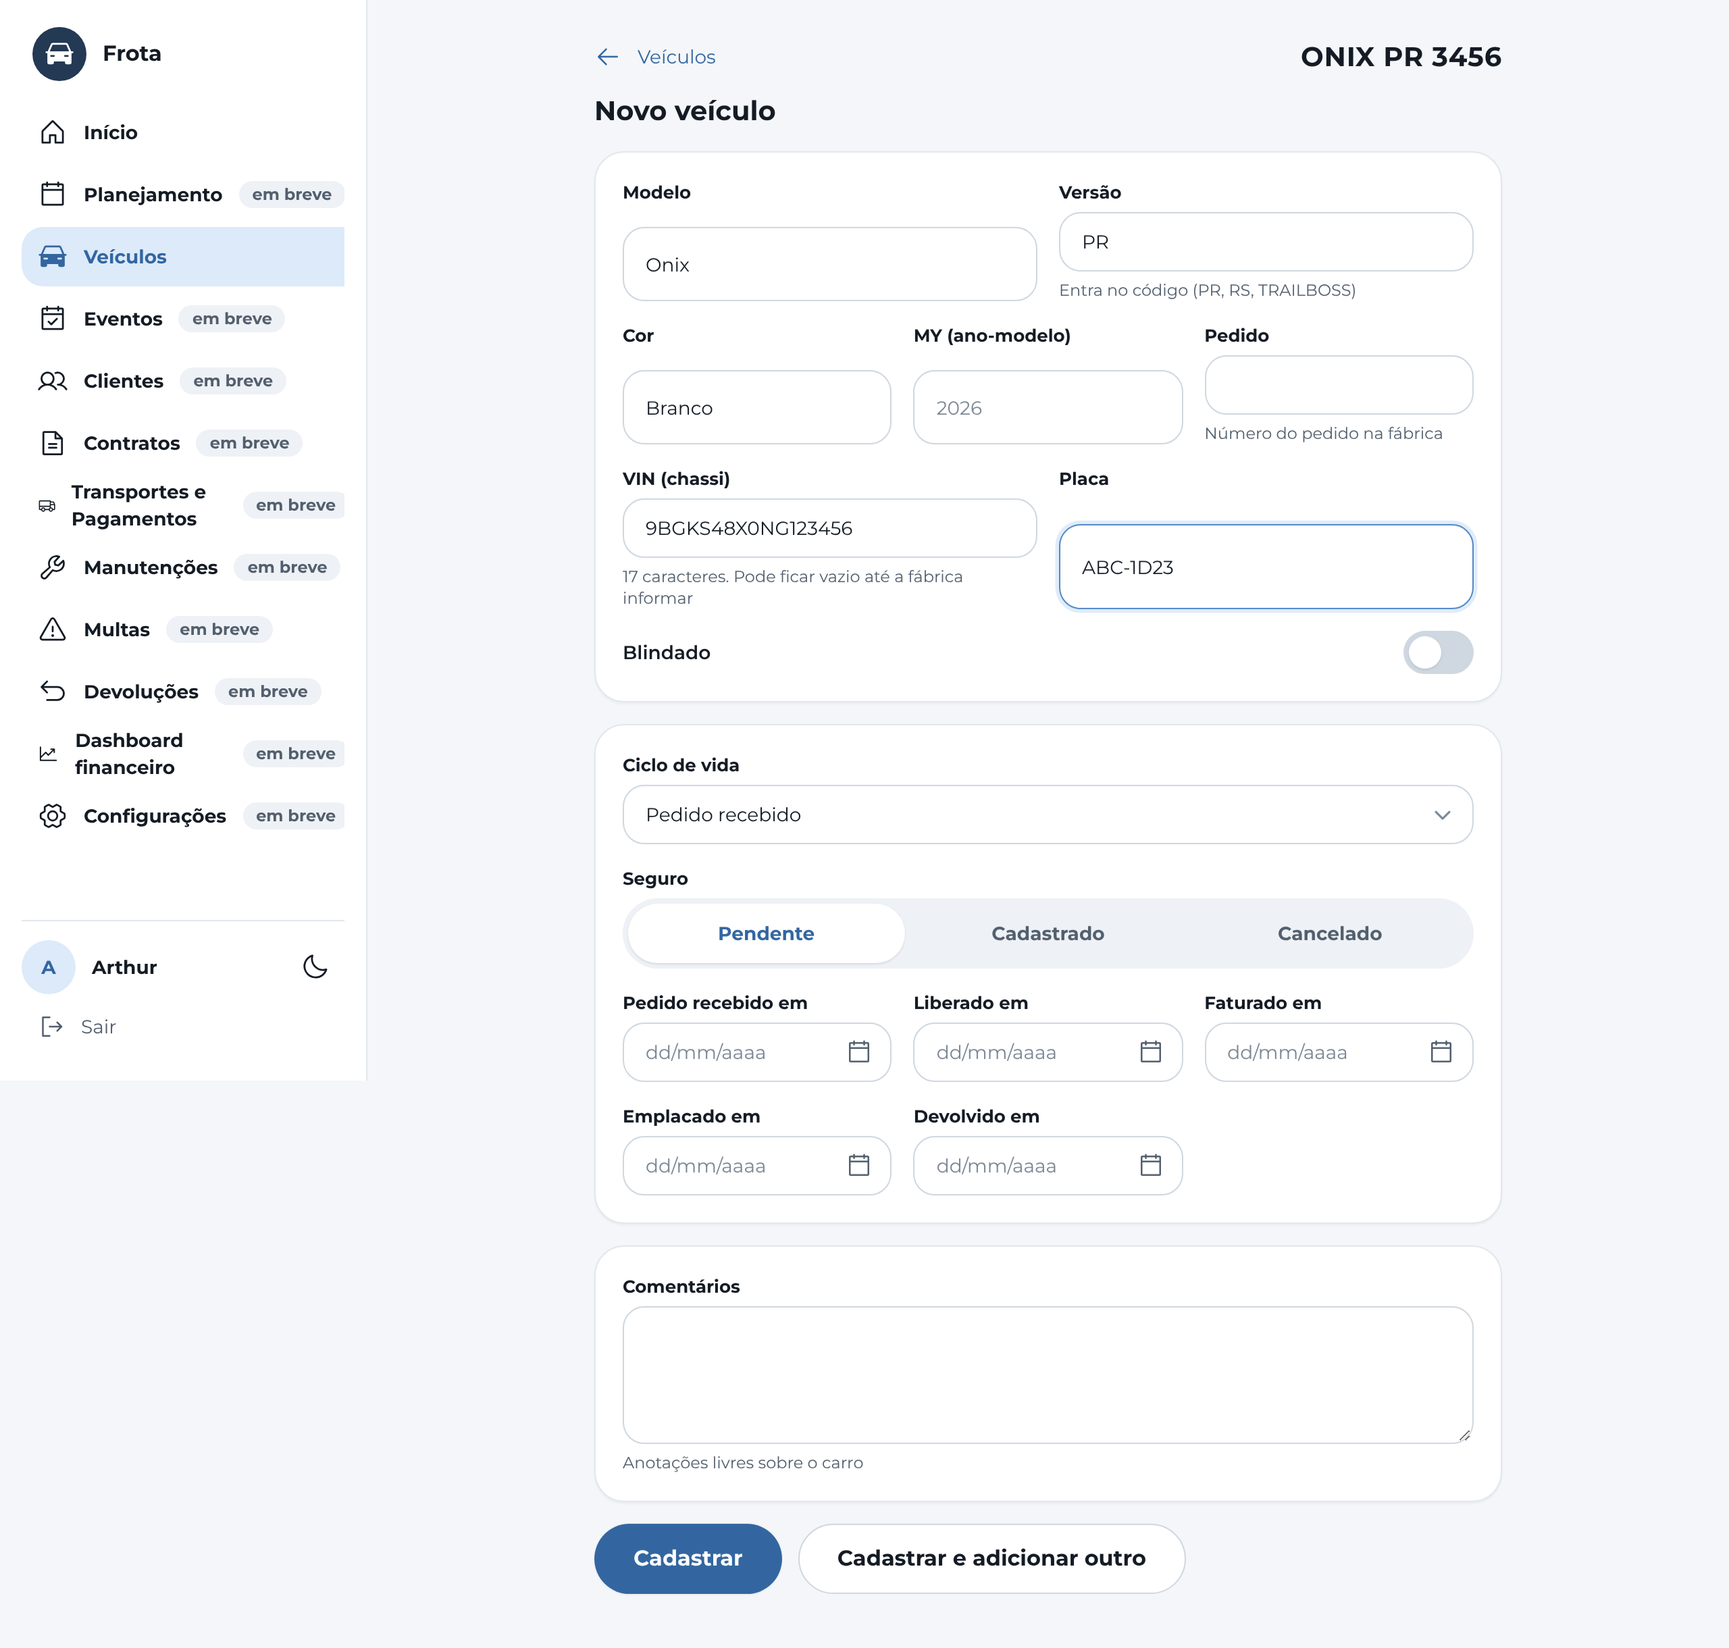
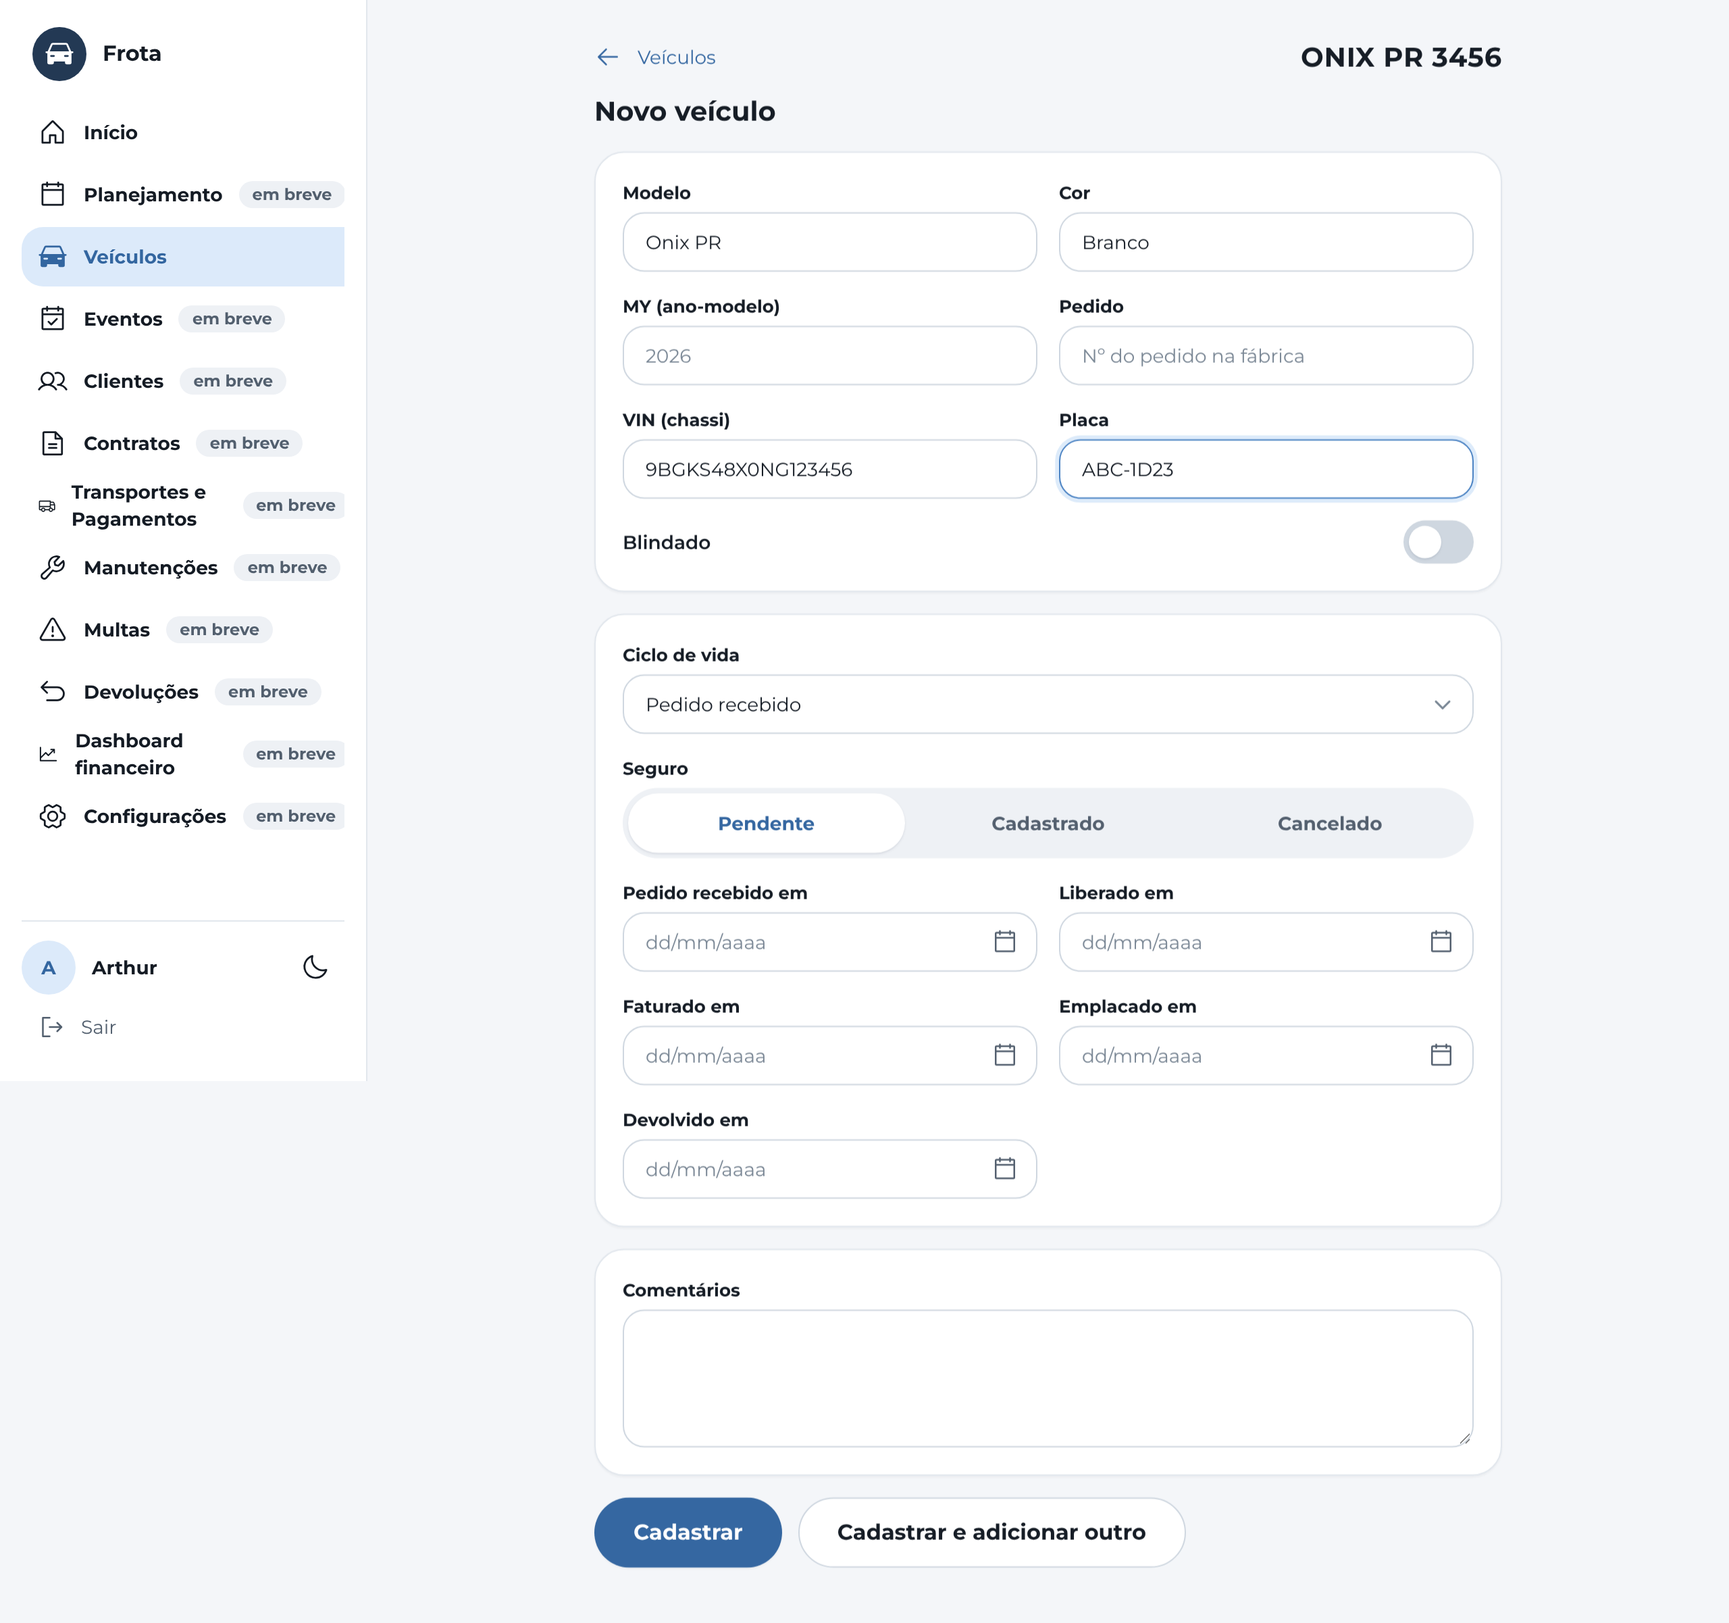
Veículos: formulário em grade simétrica sem textinhos, versão dentro do modelo; banco: dados confidenciais criptografados (migration 0003, ainda não aplicada) e testes
Claude-Session: https://claude.ai/code/session_01ESTCcgLzWreKa9bGC6U2mi

diff --git a/web/src/pages/veiculos/FormVeiculo.tsx b/web/src/pages/veiculos/FormVeiculo.tsx
@@ -7,15 +7,15 @@ import { CICLO, SEGURO, normalizarPlaca, normalizarVin, placaValida, vazioParaNu
 import "./veiculos.css";
 
 type Estado = {
-  modelo: string; versao: string; cor: string; my: string; pedido: string; vin: string; placa: string; blindado: boolean;
+  modelo: string; cor: string; my: string; pedido: string; vin: string; placa: string; blindado: boolean;
   seguro: Seguro; ciclo: Ciclo; d_pedido: string; d_lib: string; d_fat: string; d_empl: string; d_dev: string; comentarios: string;
 };
-const VAZIO: Estado = { modelo: "", versao: "", cor: "", my: "", pedido: "", vin: "", placa: "", blindado: false, seguro: "pendente", ciclo: "pedido_recebido", d_pedido: "", d_lib: "", d_fat: "", d_empl: "", d_dev: "", comentarios: "" };
+const VAZIO: Estado = { modelo: "", cor: "", my: "", pedido: "", vin: "", placa: "", blindado: false, seguro: "pendente", ciclo: "pedido_recebido", d_pedido: "", d_lib: "", d_fat: "", d_empl: "", d_dev: "", comentarios: "" };
 
-/** "ONIX PR 3456": a mesma conta do banco (modelo + versão + 4 últimos do VIN), só para mostrar enquanto digita. */
-export const codigoPrevisto = (modelo: string, versao: string, vin: string) => {
+/** "ONIX RS 3456": a mesma conta do banco (modelo + 4 últimos do VIN; a versão vai escrita no modelo), só para mostrar enquanto digita. */
+export const codigoPrevisto = (modelo: string, vin: string) => {
   const v = normalizarVin(vin);
-  return v.length >= 4 && modelo.trim() ? [modelo.trim().toUpperCase(), versao.trim().toUpperCase(), v.slice(-4)].filter(Boolean).join(" ") : "";
+  return v.length >= 4 && modelo.trim() ? `${modelo.trim().toUpperCase()} ${v.slice(-4)}` : "";
 };
 
 const textoAtividade = (t: string) => CICLO.reduce((s, c) => s.split(c.value).join(c.label), t);
@@ -38,7 +38,7 @@ export function FormVeiculo() {
     if (!id) return;
     buscarVeiculo(id).then((v) => {
       if (!v) { setErro("Veículo não encontrado."); return; }
-      setF({ modelo: v.modelo, versao: v.versao ?? "", cor: v.cor ?? "", my: v.my ?? "", pedido: v.pedido ?? "", vin: v.vin ?? "", placa: v.placa ?? "", blindado: v.blindado, seguro: v.seguro_status, ciclo: v.status_ciclo,
+      setF({ modelo: v.modelo, cor: v.cor ?? "", my: v.my ?? "", pedido: v.pedido ?? "", vin: v.vin ?? "", placa: v.placa ?? "", blindado: v.blindado, seguro: v.seguro_status, ciclo: v.status_ciclo,
         d_pedido: v.data_pedido ?? "", d_lib: v.data_liberacao ?? "", d_fat: v.data_faturamento ?? "", d_empl: v.data_emplacamento ?? "", d_dev: v.data_devolucao ?? "", comentarios: v.comentarios ?? "" });
       void listarAtividades(id).then(setHist, () => setHist([]));
     }, (e: Error) => setErro(e.message)).finally(() => setCarregando(false));
@@ -51,10 +51,10 @@ export function FormVeiculo() {
     placa: !placa || placaValida(placa) ? null : `A placa tem 7 caracteres (digitou ${placa.length}).`,
   }), [f.modelo, vin, placa]);
   const invalido = Object.values(erros).some(Boolean);
-  const codigo = codigoPrevisto(f.modelo, f.versao, f.vin);
+  const codigo = codigoPrevisto(f.modelo, f.vin);
 
   const corpo = (): VeiculoNovo => ({
-    modelo: f.modelo.trim(), versao: vazioParaNulo(f.versao), cor: vazioParaNulo(f.cor), my: vazioParaNulo(f.my), pedido: vazioParaNulo(f.pedido),
+    modelo: f.modelo.trim(), cor: vazioParaNulo(f.cor), my: vazioParaNulo(f.my), pedido: vazioParaNulo(f.pedido),
     vin: vin || null, placa: placa || null, blindado: f.blindado, seguro_status: f.seguro, status_ciclo: f.ciclo,
     data_pedido: f.d_pedido || null, data_liberacao: f.d_lib || null, data_faturamento: f.d_fat || null, data_emplacamento: f.d_empl || null, data_devolucao: f.d_dev || null,
     comentarios: vazioParaNulo(f.comentarios),
@@ -70,7 +70,7 @@ export function FormVeiculo() {
       else {
         const v = await criarVeiculo(corpo());
         toast(`Cadastrado: ${v.codigo ?? v.modelo}`);
-        if (outro) { setF({ ...VAZIO, modelo: f.modelo, versao: f.versao, cor: f.cor, my: f.my }); setTocado(false); window.scrollTo({ top: 0 }); }
+        if (outro) { setF({ ...VAZIO, modelo: f.modelo, cor: f.cor, my: f.my }); setTocado(false); window.scrollTo({ top: 0 }); }
         else navigate("/veiculos");
       }
     } catch (x) { setErro((x as Error).message); } finally { setEnviando(false); }
@@ -90,17 +90,16 @@ export function FormVeiculo() {
         <Card>
           <div className="vei-form">
             <div className="vei-form__linha">
-              <Field label="Modelo" error={tocado ? erros.modelo : null}><Input value={f.modelo} onChange={(e) => set("modelo", e.target.value)} placeholder="Onix" autoCapitalize="characters" /></Field>
-              <Field label="Versão" hint="Entra no código (PR, RS, TRAILBOSS)"><Input value={f.versao} onChange={(e) => set("versao", e.target.value)} placeholder="PR" /></Field>
-            </div>
-            <div className="vei-form__linha">
+              <Field label="Modelo" error={tocado ? erros.modelo : null}><Input value={f.modelo} onChange={(e) => set("modelo", e.target.value)} placeholder="Onix RS" autoCapitalize="characters" /></Field>
               <Field label="Cor"><Input value={f.cor} onChange={(e) => set("cor", e.target.value)} /></Field>
-              <Field label="MY (ano-modelo)"><Input value={f.my} onChange={(e) => set("my", e.target.value)} placeholder="2026" inputMode="numeric" /></Field>
-              <Field label="Pedido" hint="Número do pedido na fábrica"><Input value={f.pedido} onChange={(e) => set("pedido", e.target.value)} /></Field>
             </div>
             <div className="vei-form__linha">
-              <Field label="VIN (chassi)" error={tocado || vin.length > 17 ? erros.vin : null} hint="17 caracteres. Pode ficar vazio até a fábrica informar"><Input value={f.vin} onChange={(e) => set("vin", e.target.value.toUpperCase())} autoCapitalize="characters" spellCheck={false} maxLength={20} /></Field>
-              <Field label="Placa" error={tocado ? erros.placa : null}><Input value={f.placa} onChange={(e) => set("placa", e.target.value.toUpperCase())} autoCapitalize="characters" spellCheck={false} maxLength={8} /></Field>
+              <Field label="MY (ano-modelo)"><Input value={f.my} onChange={(e) => set("my", e.target.value)} placeholder="2026" inputMode="numeric" /></Field>
+              <Field label="Pedido"><Input value={f.pedido} onChange={(e) => set("pedido", e.target.value)} placeholder="Nº do pedido na fábrica" /></Field>
+            </div>
+            <div className="vei-form__linha">
+              <Field label="VIN (chassi)" error={tocado || vin.length > 17 ? erros.vin : null}><Input value={f.vin} onChange={(e) => set("vin", e.target.value.toUpperCase())} placeholder="17 caracteres" autoCapitalize="characters" spellCheck={false} maxLength={20} /></Field>
+              <Field label="Placa" error={tocado ? erros.placa : null}><Input value={f.placa} onChange={(e) => set("placa", e.target.value.toUpperCase())} placeholder="ABC1D23" autoCapitalize="characters" spellCheck={false} maxLength={8} /></Field>
             </div>
             <div className="ds-row" style={{ justifyContent: "space-between" }}><span className="t-body" style={{ fontWeight: 600 }}>Blindado</span><Switch checked={f.blindado} onChange={(v) => set("blindado", v)} label="Blindado" /></div>
           </div>
@@ -120,7 +119,7 @@ export function FormVeiculo() {
           </div>
         </Card>
 
-        <Card><Field label="Comentários" hint="Anotações livres sobre o carro"><Textarea rows={4} value={f.comentarios} onChange={(e) => set("comentarios", e.target.value)} /></Field></Card>
+        <Card><Field label="Comentários"><Textarea rows={4} value={f.comentarios} onChange={(e) => set("comentarios", e.target.value)} /></Field></Card>
 
         {erro && <p className="t-body" role="alert" style={{ color: "var(--color-error-fg)" }}>{erro}</p>}
         <div className="ds-row" style={{ flexWrap: "wrap" }}>

diff --git a/web/src/lib/veiculos/importacao.ts b/web/src/lib/veiculos/importacao.ts
@@ -4,13 +4,13 @@
  */
 import { CICLO, SEGURO, normalizarPlaca, normalizarVin, placaValida, vazioParaNulo, vinValido, type Ciclo, type Seguro, type VeiculoNovo } from "./tipos";
 
-export type CampoLinha = "modelo" | "versao" | "cor" | "my" | "pedido" | "vin" | "placa" | "blindado" | "seguro" | "ciclo" | "comentarios";
+export type CampoLinha = "modelo" | "cor" | "my" | "pedido" | "vin" | "placa" | "blindado" | "seguro" | "ciclo" | "comentarios";
 export type LinhaCrua = Partial<Record<CampoLinha, string>>;
 export type Tom = "ok" | "erro" | "dup" | "ign";
 export type ResultadoLinha = { tom: Tom; texto: string; veiculo?: VeiculoNovo };
 
 export const CAMPOS: { id: CampoLinha; titulo: string; largura: number }[] = [
-  { id: "modelo", titulo: "Modelo", largura: 130 }, { id: "versao", titulo: "Versão", largura: 110 }, { id: "cor", titulo: "Cor", largura: 110 },
+  { id: "modelo", titulo: "Modelo", largura: 130 }, { id: "cor", titulo: "Cor", largura: 110 },
   { id: "my", titulo: "MY", largura: 80 }, { id: "pedido", titulo: "Pedido", largura: 120 }, { id: "vin", titulo: "VIN (chassi)", largura: 190 },
   { id: "placa", titulo: "Placa", largura: 100 }, { id: "blindado", titulo: "Blindado", largura: 100 }, { id: "seguro", titulo: "Seguro", largura: 120 },
   { id: "ciclo", titulo: "Ciclo de vida", largura: 190 }, { id: "comentarios", titulo: "Comentários", largura: 200 },
@@ -20,7 +20,7 @@ const semAcento = (s: string) => s.normalize("NFD").replace(/[̀-ͯ]/g, "").toLo
 
 /** Nomes de coluna aceitos no cabeçalho colado (sem acento, minúsculas). */
 const ALIAS: Record<string, CampoLinha> = {
-  modelo: "modelo", versao: "versao", cor: "cor", my: "my", "ano modelo": "my", "ano-modelo": "my", pedido: "pedido", "n pedido": "pedido",
+  modelo: "modelo", cor: "cor", my: "my", "ano modelo": "my", "ano-modelo": "my", pedido: "pedido", "n pedido": "pedido",
   vin: "vin", chassi: "vin", "vin (chassi)": "vin", placa: "placa", blindado: "blindado", seguro: "seguro",
   ciclo: "ciclo", "ciclo de vida": "ciclo", status: "ciclo", "status do ciclo de vida": "ciclo", comentarios: "comentarios", comentario: "comentarios", obs: "comentarios",
 };
@@ -29,12 +29,15 @@ const ALIAS: Record<string, CampoLinha> = {
 export function linhasDeMatriz(matriz: string[][]): LinhaCrua[] {
   const dados = matriz.filter((l) => l.some((c) => (c ?? "").trim() !== ""));
   if (dados.length === 0) return [];
+  // Se a planilha trouxer uma coluna "Versão", ela é juntada ao modelo ("Onix" + "RS" → "Onix RS"): o app tem um campo só.
+  const colVersao = dados[0].findIndex((c) => semAcento(c ?? "") === "versao");
   const mapa = dados[0].map((c) => ALIAS[semAcento(c ?? "")]);
   const ehCabecalho = mapa.filter(Boolean).length >= 2;
   const ordem: (CampoLinha | undefined)[] = ehCabecalho ? mapa : CAMPOS.map((c) => c.id);
   return (ehCabecalho ? dados.slice(1) : dados).map((l) => {
     const o: LinhaCrua = {};
     l.forEach((c, i) => { const campo = ordem[i]; if (campo && (c ?? "").trim() !== "") o[campo] = c.trim(); });
+    if (ehCabecalho && colVersao >= 0 && (l[colVersao] ?? "").trim() && o.modelo) o.modelo = `${o.modelo} ${l[colVersao].trim()}`;
     return o;
   });
 }
@@ -78,7 +81,7 @@ export function validarLinha(l: LinhaCrua, ex: Existentes, vistas: Existentes): 
   if (placa) vistas.placas.add(placa);
 
   const veiculo: VeiculoNovo = {
-    modelo, versao: vazioParaNulo(l.versao), cor: vazioParaNulo(l.cor), my: vazioParaNulo(l.my), pedido: vazioParaNulo(l.pedido),
+    modelo, cor: vazioParaNulo(l.cor), my: vazioParaNulo(l.my), pedido: vazioParaNulo(l.pedido),
     vin, placa, blindado: blind === null ? false : blind,
     seguro_status: (seguro ?? "pendente") as Seguro, status_ciclo: (ciclo ?? "pedido_recebido") as Ciclo, comentarios: vazioParaNulo(l.comentarios),
   };

diff --git a/web/src/lib/veiculos/importacao.test.ts b/web/src/lib/veiculos/importacao.test.ts
@@ -10,9 +10,12 @@ describe("linhasDeMatriz", () => {
     const l = linhasDeMatriz([["Modelo", "Chassi", "Status", "Cor"], ["Onix", VIN, "Liberado", "Branco"]]);
     expect(l).toEqual([{ modelo: "Onix", vin: VIN, ciclo: "Liberado", cor: "Branco" }]);
   });
-  it("sem cabeçalho, assume a ordem modelo, versão, cor, MY, pedido, VIN, placa…", () => {
-    const l = linhasDeMatriz([["Onix", "PR", "Preto", "2026", "P-1", VIN, "ABC1D23"]]);
-    expect(l[0]).toMatchObject({ modelo: "Onix", versao: "PR", cor: "Preto", my: "2026", pedido: "P-1", vin: VIN, placa: "ABC1D23" });
+  it("sem cabeçalho, assume a ordem modelo, cor, MY, pedido, VIN, placa…", () => {
+    const l = linhasDeMatriz([["Onix PR", "Preto", "2026", "P-1", VIN, "ABC1D23"]]);
+    expect(l[0]).toMatchObject({ modelo: "Onix PR", cor: "Preto", my: "2026", pedido: "P-1", vin: VIN, placa: "ABC1D23" });
+  });
+  it("junta a coluna Versão ao modelo (o app tem um campo só)", () => {
+    expect(linhasDeMatriz([["Modelo", "Versão", "Cor"], ["Onix", "RS", "Preto"], ["S10", "", "Azul"]])).toEqual([{ modelo: "Onix RS", cor: "Preto" }, { modelo: "S10", cor: "Azul" }]);
   });
   it("ignora linhas totalmente vazias", () => { expect(linhasDeMatriz([["", ""], ["Onix"]])).toHaveLength(1); });
 });

diff --git a/web/src/pages/veiculos/Massa.tsx b/web/src/pages/veiculos/Massa.tsx
@@ -105,7 +105,7 @@ export function Massa() {
 
       <Sheet open={colando} onClose={() => setColando(false)} title="Colar do Excel">
         <div className="ds-stack">
-          <p className="t-body-sm t-muted">Copie as células no Excel (com ou sem a linha de títulos) e cole aqui. Colunas aceitas: Modelo, Versão, Cor, MY, Pedido, VIN/Chassi, Placa, Blindado, Seguro, Ciclo de vida, Comentários.</p>
+          <p className="t-body-sm t-muted">Copie as células no Excel (com ou sem a linha de títulos) e cole aqui. Escreva a versão junto do modelo (Onix RS). Colunas aceitas: Modelo, Cor, MY, Pedido, VIN/Chassi, Placa, Blindado, Seguro, Ciclo de vida, Comentários.</p>
           <Textarea rows={8} value={texto} onChange={(e) => setTexto(e.target.value)} aria-label="Texto colado" />
           <Button size="lg" block disabled={!texto.trim()} onClick={() => { adicionar(Papa.parse<string[]>(texto, { delimiter: "\t", skipEmptyLines: true }).data); setTexto(""); setColando(false); }}>Adicionar à grade</Button>
         </div>

diff --git a/web/src/pages/veiculos/Veiculos.tsx b/web/src/pages/veiculos/Veiculos.tsx
@@ -13,11 +13,10 @@ const TOM_CICLO: Record<string, "success" | "warning" | "error" | "info" | "neut
 };
 
 const COLUNAS: Col[] = [
-  { id: "codigo", titulo: "Código", valor: (v) => v.codigo ?? `${v.modelo}${v.versao ? " " + v.versao : ""}`.toUpperCase(), padrao: true },
+  { id: "codigo", titulo: "Código", valor: (v) => v.codigo ?? v.modelo.toUpperCase(), padrao: true },
   { id: "placa", titulo: "Placa", valor: (v) => v.placa ?? "", padrao: true },
   { id: "vin", titulo: "VIN (chassi)", valor: (v) => v.vin ?? "", padrao: true },
   { id: "modelo", titulo: "Modelo", valor: (v) => v.modelo, padrao: false },
-  { id: "versao", titulo: "Versão", valor: (v) => v.versao ?? "", padrao: false },
   { id: "cor", titulo: "Cor", valor: (v) => v.cor ?? "", padrao: true },
   { id: "my", titulo: "MY", valor: (v) => v.my ?? "", padrao: true },
   { id: "pedido", titulo: "Pedido", valor: (v) => v.pedido ?? "", padrao: false },

diff --git a/web/src/pages/veiculos/veiculos.css b/web/src/pages/veiculos/veiculos.css
@@ -10,7 +10,8 @@
 .vei-tabela tbody tr:hover td { background: var(--color-surface-elevated); }
 .vei-tabela td.vazio { color: var(--color-text-subtle); }
 .vei-form { display: grid; gap: var(--space-4); }
-.vei-form__linha { display: grid; gap: var(--space-4); grid-template-columns: repeat(auto-fit, minmax(180px, 1fr)); }
+.vei-form__linha { display: grid; gap: var(--space-4); grid-template-columns: repeat(2, minmax(0, 1fr)); align-items: start; }
+@media (max-width: 520px) { .vei-form__linha { grid-template-columns: minmax(0, 1fr); } }
 .vei-codigo { font-weight: 700; font-size: 20px; letter-spacing: 0.02em; }
 .vei-hist { list-style: none; margin: 0; padding: 0; display: grid; gap: var(--space-3); }
 .vei-hist li { display: grid; gap: 2px; padding-left: var(--space-4); border-left: 3px solid var(--color-accent-soft); }

diff --git a/web/src/lib/veiculos/tipos.ts b/web/src/lib/veiculos/tipos.ts
@@ -38,7 +38,7 @@ export type Veiculo = {
 
 /** O que o formulário e a importação enviam ao banco (o código e o espaço de trabalho o banco preenche). */
 export type VeiculoNovo = {
-  modelo: string; versao?: string | null; cor?: string | null; my?: string | null; pedido?: string | null;
+  modelo: string; cor?: string | null; my?: string | null; pedido?: string | null;
   vin?: string | null; placa?: string | null; blindado?: boolean;
   seguro_status?: Seguro; status_ciclo?: Ciclo;
   data_pedido?: string | null; data_liberacao?: string | null; data_faturamento?: string | null; data_emplacamento?: string | null; data_devolucao?: string | null;
